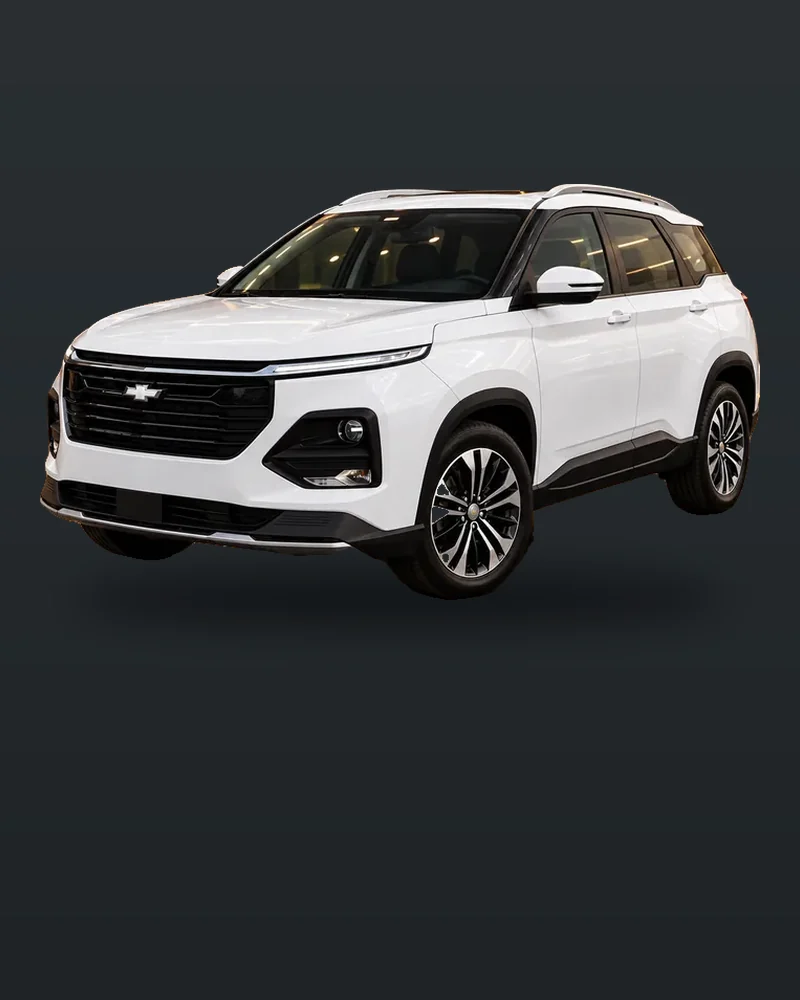
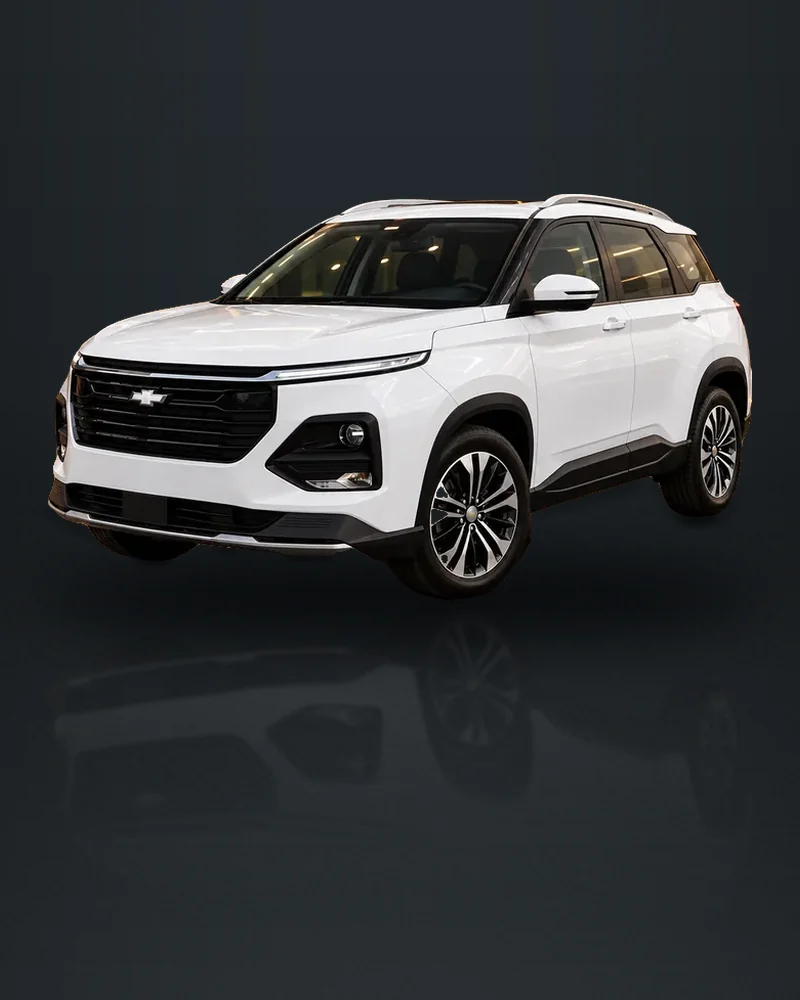
Catálogo: autos sobre piso de estudio (sin efecto de flotar)
Mismo fondo neutro en degradado (#24292D), ahora con piso de pavimento
oscuro, horizonte suave, oclusión bajo la carrocería, contacto en cada
llanta siguiendo el contorno real y un reflejo tenue. Fotos de los autos
sin alterar. El script que las genera queda en design/fotos-originales.

Changed region(s): [[0.0312, 0.186, 0.9688, 0.589], [0.4688, 0.527, 0.5, 0.558]]

diff --git a/design/fotos-originales/estudio.py b/design/fotos-originales/estudio.py
@@ -1,0 +1,93 @@
+import os
+import numpy as np
+from PIL import Image, ImageFilter, ImageDraw
+from rembg import remove, new_session
+os.makedirs("cutouts",exist_ok=True); os.makedirs("estudio",exist_ok=True)
+sess=None
+def cutout(name):
+    global sess
+    p=f"cutouts/{name}.png"
+    if os.path.exists(p): return Image.open(p)
+    if sess is None: sess=new_session("isnet-general-use")
+    c=remove(Image.open(f"originales/{name}.webp").convert("RGB"),session=sess,post_process_mask=True)
+    c.save(p); return c
+
+def lerp(a,b,t): return tuple(int(a[i]*(1-t)+b[i]*t) for i in range(3))
+def escena(W,H,hz):
+    # pared: grafito con caída suave; piso: pavimento oscuro, más claro hacia la cámara
+    WALL_TOP,WALL_BOT=(40,45,49),(33,38,42)        # alrededor de #24292D
+    FLOOR_FAR,FLOOR_NEAR=(27,31,34),(44,49,53)
+    arr=np.zeros((H,W,3),np.float32)
+    band=H*0.10
+    for y in range(H):
+        cw=lerp(WALL_TOP,WALL_BOT,min(1,y/max(1,hz)))
+        cf=lerp(FLOOR_FAR,FLOOR_NEAR,(max(0,y-hz)/max(1,H-hz))**0.8)
+        t=min(1,max(0,(y-(hz-band))/(2*band))); t=t*t*(3-2*t)   # horizonte suave
+        arr[y,:,:]=[cw[i]*(1-t)+cf[i]*t for i in range(3)]
+    # viñeta lateral muy suave
+    x=np.linspace(-1,1,W); v=1-0.18*(x**2); arr*=v[None,:,None]
+    # textura de pavimento: grano fino sólo en el piso
+    rng=np.random.default_rng(7); n=rng.normal(0,2.2,(H,W,1)); n[:hz]=0
+    arr=np.clip(arr+n,0,255)
+    img=Image.fromarray(arr.astype(np.uint8))
+    # horizonte difuso
+    return img.filter(ImageFilter.GaussianBlur(1.2))
+
+def componer(name,W,H,ancho,piso,alto_max,hz_frac):
+    cut=cutout(name)
+    a=cut.split()[3]
+    bb=a.point(lambda v:255 if v>40 else 0).getbbox()
+    car=cut.crop(bb)
+    s=min(W*ancho/car.width,H*alto_max/car.height)
+    car=car.resize((int(car.width*s),int(car.height*s)),Image.LANCZOS)
+    x=(W-car.width)//2; ground=int(H*piso); y=ground-car.height
+    bg=escena(W,H,int(H*hz_frac)).convert("RGBA")
+    # reflejo tenue en el pavimento
+    refl=car.transpose(Image.FLIP_TOP_BOTTOM)
+    ra=np.array(refl.split()[3],np.float32)
+    fade=(np.linspace(1,0,refl.height)**2.6*0.18)[:,None]
+    ra=(ra*fade).astype(np.uint8)
+    refl.putalpha(Image.fromarray(ra)); refl=refl.filter(ImageFilter.GaussianBlur(2))
+    bg.alpha_composite(refl,(x,ground-3))
+    # sombras: amplia bajo la carrocería + contacto firme en la línea de llantas
+    sh=Image.new("L",(W,H),0); d=ImageDraw.Draw(sh)
+    d.ellipse([x-car.width*0.02, ground-H*0.06, x+car.width*1.02, ground+H*0.055], fill=150)
+    d.ellipse([x+car.width*0.06, ground-H*0.035, x+car.width*0.94, ground+H*0.022], fill=225)
+    sh=sh.filter(ImageFilter.GaussianBlur(H*0.026))
+    # contacto que sigue el contorno inferior real: cada llanta (también las
+    # traseras, más altas por la perspectiva) toca el piso en su propio punto.
+    alpha=np.array(car.split()[3])
+    hgt=alpha.shape[0]
+    ct=Image.new("L",(W,H),0); cd=ImageDraw.Draw(ct)
+    bottoms=np.full(alpha.shape[1],-1)
+    for cx in range(alpha.shape[1]):
+        ys=np.where(alpha[:,cx]>60)[0]
+        if len(ys): bottoms[cx]=ys[-1]
+    k=max(4,int(car.width*0.035))
+    for cx in range(alpha.shape[1]):
+        yb=bottoms[cx]
+        if yb<0 or yb<hgt*0.70: continue
+        win=bottoms[max(0,cx-k):cx+k+1]
+        gy=y+yb
+        # oclusión bajo toda la parte baja
+        cd.line([(x+cx,gy-1),(x+cx,gy+int(H*0.010))],fill=110)
+        # contacto firme donde el contorno toca su punto más bajo local (llantas)
+        if yb>=win.max()-2:
+            cd.ellipse([x+cx-4,gy-3,x+cx+4,gy+int(H*0.007)],fill=255)
+    ct=ct.filter(ImageFilter.GaussianBlur(max(2.5,H*0.005)))
+    shadow=Image.new("RGBA",(W,H),(6,8,10,0))
+    m=np.maximum(np.array(sh,np.float32), np.array(ct,np.float32)).astype(np.uint8)
+    shadow.putalpha(Image.fromarray(m))
+    bg.alpha_composite(shadow)
+    bg.alpha_composite(car,(x,y))
+    return bg.convert("RGB")
+
+for n in ["executive","high-suv","minivan","sedan"]:
+    componer(f"flota-{n}",1400,788,0.78,0.86,0.74,0.58).save(f"estudio/flota-{n}.webp","WEBP",quality=86,method=6)
+    componer(f"cotizador-{n}",800,1000,0.88,0.60,0.42,0.48).save(f"estudio/cotizador-{n}.webp","WEBP",quality=86,method=6)
+    print("ok",n)
+w,h=700,394
+sheet=Image.new("RGB",(w*2+10,(h+10)*2),(255,255,255))
+for i,n in enumerate(["high-suv","executive","minivan","sedan"]):
+    sheet.paste(Image.open(f"estudio/flota-{n}.webp").convert("RGB").resize((w,h)),((i%2)*(w+10),(i//2)*(h+10)))
+sheet.save("estudio-hoja.png")
